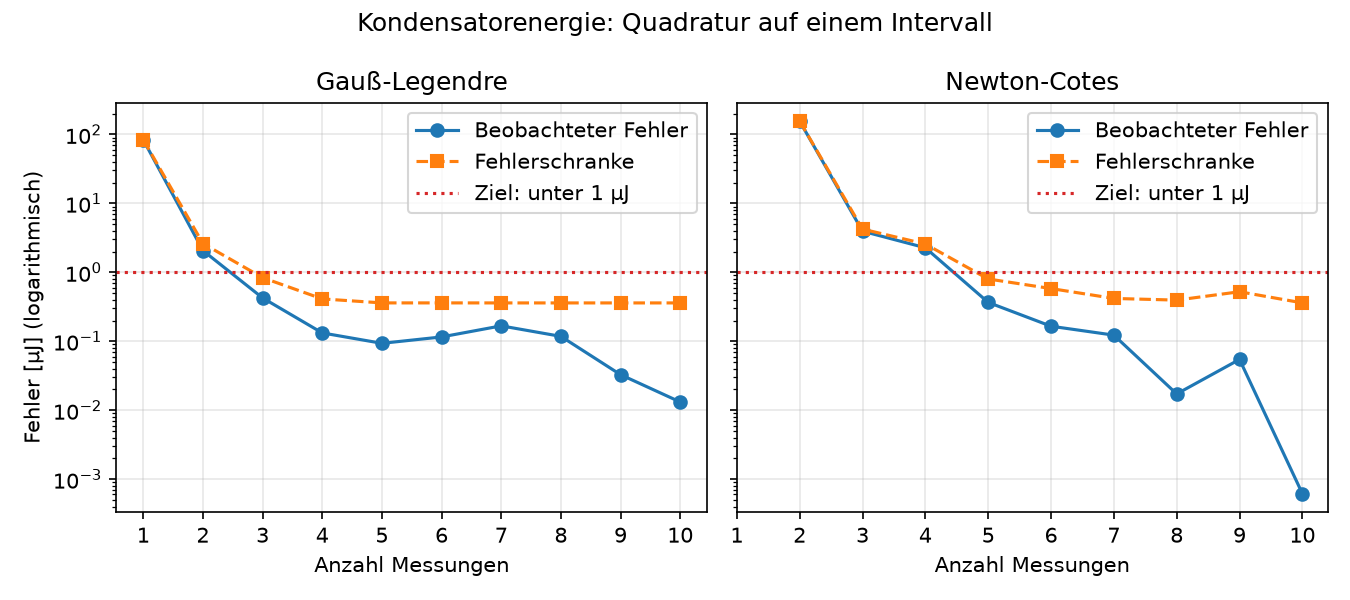
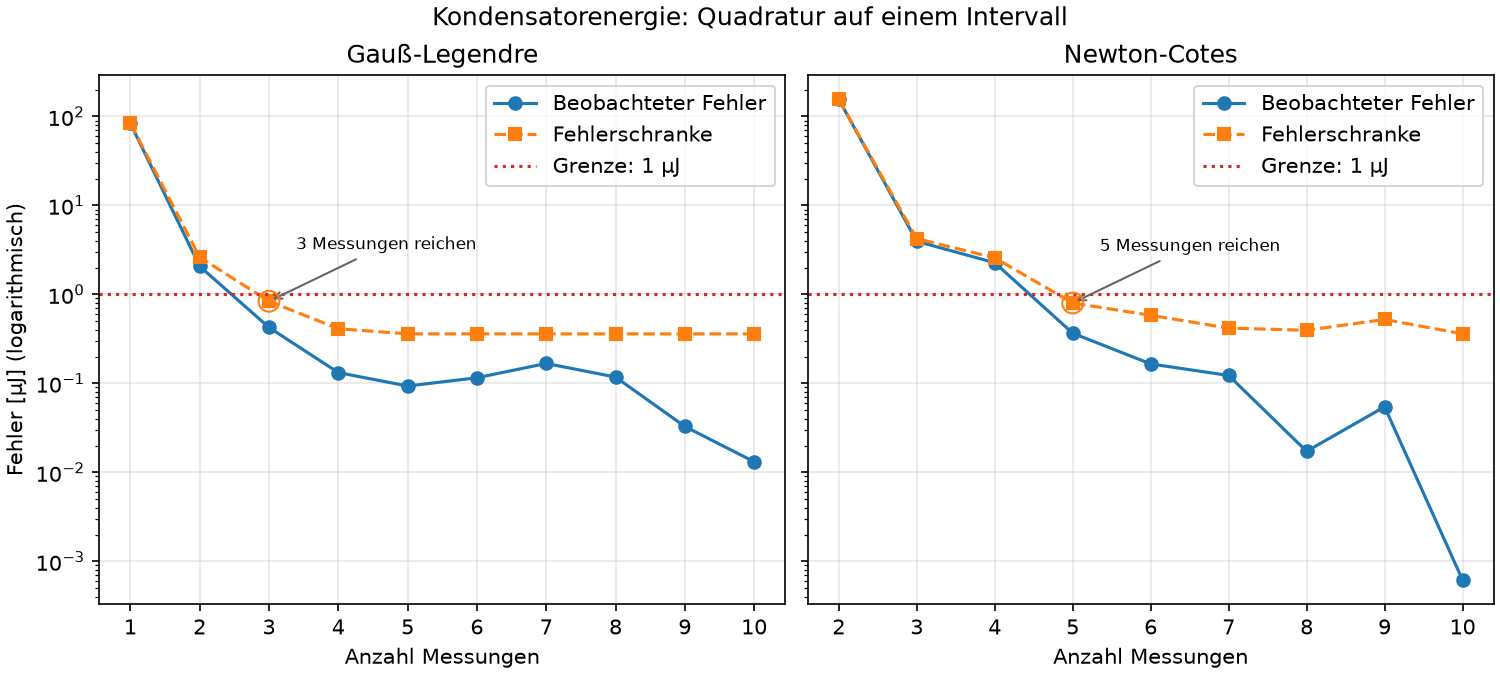
Enhance visualizations in Aufgabe 3 and Aufgabe 4 with improved subplot configurations and error annotations

Changed region(s): [[0.0, 0.0, 1.0, 0.99], [0.6844, 0.93, 0.84, 0.99], [0.84, 0.57, 0.9333, 0.66]]

diff --git a/PP3/aufgabe3.py b/PP3/aufgabe3.py
@@ -17,7 +17,19 @@ def main():
          (np.arctan(14) + np.arctan(6)) / 20),
         (r"$|\sin(5x)|$", lambda x: np.abs(np.sin(5 * x)), (3 + np.cos(5)) / 5),
     ]
-    fig, achsen = plt.subplots(1, 3, figsize=(13, 4))
+    fig, (kurven, fehlerachsen, zoomachsen) = plt.subplots(
+        3, 3, figsize=(13, 9), height_ratios=(1, 1.25, 1.25), layout="constrained"
+    )
+    x_plot = np.linspace(0, 1, 500)
+    for ax, (titel, f, _), markierung in zip(
+        kurven, funktionen, (None, (0.3, "Spitze bei 0,3"), (np.pi / 5, "Knick bei π/5"))
+    ):
+        ax.plot(x_plot, f(x_plot), color="0.2")
+        ax.set(title=titel, xlabel="x", xlim=(0, 1))
+        if markierung is not None:
+            stelle, text = markierung
+            ax.axvline(stelle, color="0.5", linestyle=":", label=text)
+            ax.legend(loc="upper right", fontsize="small")
 
     for name, formel, randpunkte in (
         ("Gauß-Legendre", gauss_formel, False), ("Newton-Cotes", nc_formel, True)
@@ -33,18 +45,34 @@ def main():
             for werte, (_, f, integral) in zip(fehler, funktionen):
                 werte.append(abs(quadratur(f(x), w) - integral))
 
-        for ax, werte, (titel, _, _) in zip(achsen, fehler, funktionen):
+        stil = "s--" if randpunkte else "o-"
+        farbe = "tab:orange" if randpunkte else "tab:blue"
+        klein = range(n_werte.start, 11)
+        for ax, zoom, werte, (titel, _, _) in zip(fehlerachsen, zoomachsen, fehler, funktionen):
             i = np.argmin(werte)
             n, m, kosten = aufteilungen[i]
             print(f"{titel}, {name}: N={n}, M={m}, Auswertungen={kosten}, Fehler={werte[i]:.3e}")
-            ax.semilogy(n_werte, np.maximum(werte, 1e-16), ".-", label=name)
+            y_plot = np.maximum(werte, 1e-16)
+            ax.semilogy(n_werte, y_plot, stil, color=farbe, markersize=3, label=name)
+            zoom.semilogy(klein, y_plot[:len(klein)], stil, color=farbe, markersize=4)
 
-    for ax, (titel, _, _) in zip(achsen, funktionen):
-        ax.set(title=titel, xlabel="Stützstellen N pro Teilintervall")
-        ax.grid(True, alpha=0.3)
-        ax.legend()
-    achsen[0].set_ylabel("Absoluter Fehler (Plot-Untergrenze $10^{-16}$)")
-    fig.tight_layout()
+            if titel == "Schmaler Hügel":
+                i_zwei = n_werte.index(2)
+                zoom.scatter(2, y_plot[i_zwei], s=90, facecolors="none", edgecolors=farbe, zorder=4)
+                print(f"  {name} bei N=2: M={aufteilungen[i_zwei][1]}, "
+                      f"Auswertungen={aufteilungen[i_zwei][2]}, Fehler={werte[i_zwei]:.3e}")
+
+    for ax, zoom in zip(fehlerachsen, zoomachsen):
+        ax.set(title="Ganzer Bereich", xlabel="Punkte N pro Teilintervall", xlim=(0, budget + 1))
+        zoom.set(title="Zoom: N bis 10", xlabel="Punkte N pro Teilintervall", xticks=range(1, 11))
+        ax.grid(True, alpha=0.25)
+        zoom.grid(True, alpha=0.25)
+    zoomachsen[1].set_title("Zoom: Hügel bei N = 2 hervorgehoben")
+    kurven[0].set_ylabel("Funktionswert f(x)")
+    fehlerachsen[0].set_ylabel("Absoluter Fehler (log.)")
+    zoomachsen[0].set_ylabel(r"Absoluter Fehler (log.; min. $10^{-16}$)")
+    fehlerachsen[0].legend(loc="upper left", fontsize="small")
+    fig.suptitle(f"Aufgabe 3: Summierte Quadratur mit höchstens {budget} Auswertungen")
     fig_dir = Path(__file__).resolve().parent / "figures"
     fig_dir.mkdir(exist_ok=True)
     fig.savefig(fig_dir / "aufgabe3_summiert.png", dpi=150)

diff --git a/PP3/aufgabe4.py b/PP3/aufgabe4.py
@@ -25,7 +25,7 @@ def fehler(x, w):
 
 def main():
     print("Fehler und Schranke in µJ; Ziel: Fehler < 1 µJ.")
-    fig, achsen = plt.subplots(1, 2, figsize=(9, 4), sharey=True)
+    fig, achsen = plt.subplots(1, 2, figsize=(10, 4.5), sharey=True, layout="constrained")
     verfahren = (
         ("Gauß-Legendre", gauss_formel, False), ("Newton-Cotes", nc_formel, True)
     )
@@ -42,12 +42,12 @@ def main():
         einzeln = [r for r in ergebnisse if r[2] == 1]
         plot_werte = [r for r in einzeln if r[0] <= 10]
         kosten = [r[0] for r in plot_werte]
-        ax.semilogy(kosten, [r[5] for r in plot_werte], "o-", label="Beobachteter Fehler")
-        ax.semilogy(kosten, [r[6] for r in plot_werte], "s--", label="Fehlerschranke")
-        ax.axhline(1, color="tab:red", linestyle=":", label="Ziel: unter 1 µJ")
+        ax.semilogy(kosten, [r[5] for r in plot_werte], "o-", color="tab:blue", label="Beobachteter Fehler")
+        ax.semilogy(kosten, [r[6] for r in plot_werte], "s--", color="tab:orange", label="Fehlerschranke")
+        ax.axhline(1, color="tab:red", linestyle=":", label="Grenze: 1 µJ")
         ax.set(title=name, xlabel="Anzahl Messungen", xticks=range(1, 11))
         ax.grid(True, alpha=0.3)
-        ax.legend()
+        ax.legend(loc="upper right")
 
         for titel, kandidaten in (
             ("Ein Intervall", einzeln),
@@ -61,13 +61,17 @@ def main():
                 kosten, n, m, quad, daten, gesamt, schranke = min(
                     passend, key=lambda r: (r[0], r[spalte])
                 )
+                if m == 1 and kriterium == "garantiert" and kosten <= 10:
+                    ax.scatter(kosten, schranke, s=100, facecolors="none", edgecolors="tab:orange", zorder=4)
+                    ax.annotate(f"{kosten} Messungen reichen", (kosten, schranke),
+                                xytext=(13, 25), textcoords="offset points", fontsize="small",
+                                arrowprops={"arrowstyle": "->", "color": "0.4"})
                 print(f"  {titel}, {kriterium}: {kosten} Messungen (N={n}, M={m})")
                 print(f"    Quadratur={quad:+.4f}, Daten={daten:+.4f}, "
                       f"Gesamtbetrag={gesamt:.4f}, Schranke={schranke:.4f}")
 
     achsen[0].set_ylabel("Fehler [µJ] (logarithmisch)")
     fig.suptitle("Kondensatorenergie: Quadratur auf einem Intervall")
-    fig.tight_layout()
     fig_dir = Path(__file__).resolve().parent / "figures"
     fig_dir.mkdir(exist_ok=True)
     fig.savefig(fig_dir / "aufgabe4_kondensator.png", dpi=150)
